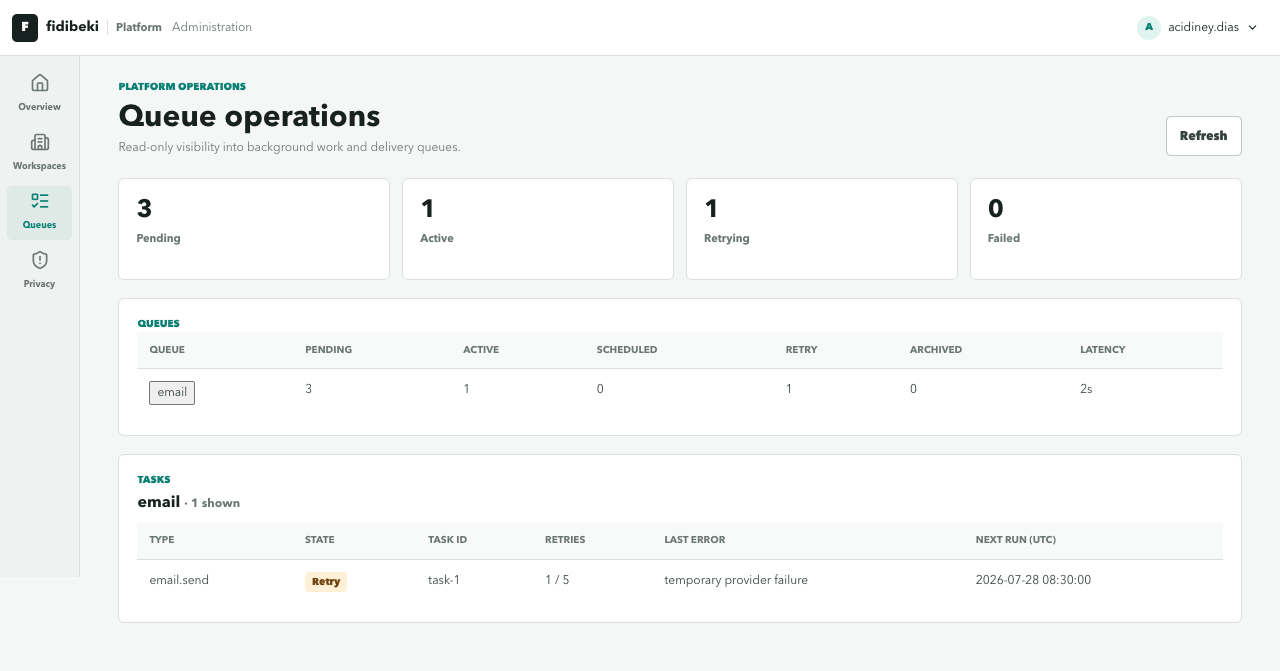
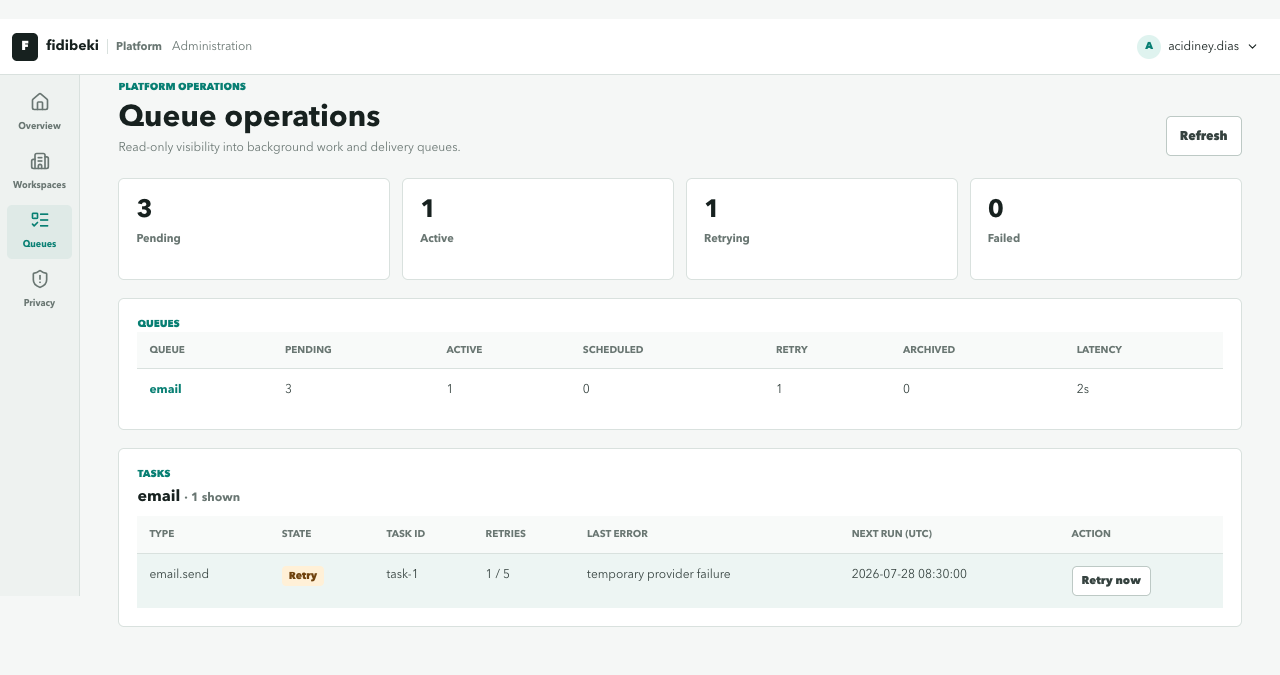
feat(backoffice): retry failed queue tasks

diff --git a/backoffice/pages/queues.vue b/backoffice/pages/queues.vue
@@ -1,5 +1,5 @@
 <script setup lang="ts">
-type Queue = { name: string; pending: number; active: number; scheduled: number; retry: number; archived: number; failed: number; latency: string }
+type Queue = { name: string; pending: number; active: number; scheduled: number; retry: number; archived: number; failed: number; latency: string; selected: boolean }
 type Task = { id: string; type: string; state: string; retries: string; last_error: string; next_process_at: string }
 type Dashboard = { queues: Queue[]; tasks: Task[]; selected_queue: string; refreshed_at: string; total_pending: number; total_active: number; total_retry: number; total_failed: number; selected_task_count: number }
 
@@ -9,8 +9,11 @@ const { $platformApi } = useNuxtApp()
 const selectedQueue = computed(() => typeof route.query.queue === 'string' ? route.query.queue : '')
 const request = computed(() => selectedQueue.value ? `/admin/backoffice/queues?queue=${encodeURIComponent(selectedQueue.value)}` : '/admin/backoffice/queues')
 const { data, error, pending, refresh } = await useAsyncData('queue-dashboard', () => $platformApi<{ dashboard: Dashboard }>(request.value), { server: false, watch: [request] })
+const retryingTaskID = ref('')
+const retryError = ref('')
 
 async function selectQueue(queue: string) {
+  if (queue === data.value?.dashboard.selected_queue) return
   await router.replace({ query: { queue } })
 }
 
@@ -19,12 +22,27 @@ function statusTone(state: string) {
 }
 
 function refreshQueues() { return refresh() }
+
+async function retryTask(task: Task) {
+  const queue = data.value?.dashboard.selected_queue
+  if (!queue || task.state !== 'retry' || retryingTaskID.value) return
+  retryingTaskID.value = task.id
+  retryError.value = ''
+  try {
+    await $platformApi(`/admin/backoffice/queues/${encodeURIComponent(queue)}/tasks/${encodeURIComponent(task.id)}/retry`, { method: 'POST' })
+    await refresh()
+  } catch {
+    retryError.value = 'The task was not retried. Check its current state and try again.'
+  } finally {
+    retryingTaskID.value = ''
+  }
+}
 </script>
 
 <template>
   <section>
     <header class="page-head">
-      <div><p class="eyebrow">Platform operations</p><h1 class="title">Queue operations</h1><p class="subtitle">Read-only visibility into background work and delivery queues.</p></div>
+      <div><p class="eyebrow">Platform operations</p><h1 class="title">Queue operations</h1><p class="subtitle">Inspect background work and explicitly retry failed delivery tasks.</p></div>
       <button class="button secondary" type="button" :disabled="pending" @click="refreshQueues">{{ pending ? 'Refreshing…' : 'Refresh' }}</button>
     </header>
 
@@ -37,9 +55,9 @@ function refreshQueues() { return refresh() }
         <article class="metric"><b>{{ data.dashboard.total_failed }}</b><span>Failed</span></article>
       </div>
 
-      <section class="panel"><p class="eyebrow">Queues</p><div v-if="data.dashboard.queues.length" class="table-wrap"><table class="table"><thead><tr><th>Queue</th><th>Pending</th><th>Active</th><th>Scheduled</th><th>Retry</th><th>Archived</th><th>Latency</th></tr></thead><tbody><tr v-for="queue in data.dashboard.queues" :key="queue.name"><td><button class="queue-link" type="button" @click="selectQueue(queue.name)">{{ queue.name }}</button></td><td>{{ queue.pending }}</td><td>{{ queue.active }}</td><td>{{ queue.scheduled }}</td><td>{{ queue.retry }}</td><td>{{ queue.archived }}</td><td>{{ queue.latency }}</td></tr></tbody></table></div><p v-else class="empty-state">No queues have been created yet.</p></section>
+      <section class="panel"><p class="eyebrow">Queues</p><div v-if="data.dashboard.queues.length" class="table-wrap"><table class="table"><thead><tr><th>Queue</th><th>Pending</th><th>Active</th><th>Scheduled</th><th>Retry</th><th>Archived</th><th>Latency</th></tr></thead><tbody><tr v-for="queue in data.dashboard.queues" :key="queue.name" :class="{ 'table-row-selected': queue.selected }"><td><button class="queue-link" :class="{ 'queue-link--selected': queue.selected }" type="button" :aria-current="queue.selected ? 'page' : undefined" @click="selectQueue(queue.name)">{{ queue.name }}</button></td><td>{{ queue.pending }}</td><td>{{ queue.active }}</td><td>{{ queue.scheduled }}</td><td>{{ queue.retry }}</td><td>{{ queue.archived }}</td><td>{{ queue.latency }}</td></tr></tbody></table></div><p v-else class="empty-state">No queues have been created yet.</p></section>
 
-      <section class="panel"><p class="eyebrow">Tasks</p><h2>{{ data.dashboard.selected_queue || 'No queue selected' }} <span class="muted">· {{ data.dashboard.selected_task_count }} shown</span></h2><div v-if="data.dashboard.tasks.length" class="table-wrap"><table class="table"><thead><tr><th>Type</th><th>State</th><th>Task ID</th><th>Retries</th><th>Last error</th><th>Next run (UTC)</th></tr></thead><tbody><tr v-for="task in data.dashboard.tasks" :key="task.id"><td>{{ task.type }}</td><td><span class="status" :class="statusTone(task.state) && `status--${statusTone(task.state)}`">{{ task.state }}</span></td><td>{{ task.id }}</td><td>{{ task.retries }}</td><td>{{ task.last_error }}</td><td>{{ task.next_process_at }}</td></tr></tbody></table></div><p v-else class="empty-state">No pending, active, scheduled, retry, or archived tasks in this queue.</p></section>
+      <section class="panel"><p class="eyebrow">Tasks</p><h2>{{ data.dashboard.selected_queue || 'No queue selected' }} <span class="muted">· {{ data.dashboard.selected_task_count }} shown</span></h2><p v-if="retryError" class="error queue-action-error" role="alert">{{ retryError }}</p><div v-if="data.dashboard.tasks.length" class="table-wrap"><table class="table"><thead><tr><th>Type</th><th>State</th><th>Task ID</th><th>Retries</th><th>Last error</th><th>Next run (UTC)</th><th>Action</th></tr></thead><tbody><tr v-for="task in data.dashboard.tasks" :key="task.id"><td>{{ task.type }}</td><td><span class="status" :class="statusTone(task.state) && `status--${statusTone(task.state)}`">{{ task.state }}</span></td><td>{{ task.id }}</td><td>{{ task.retries }}</td><td>{{ task.last_error }}</td><td>{{ task.next_process_at }}</td><td><button v-if="task.state === 'retry'" class="button secondary button--compact" type="button" :disabled="Boolean(retryingTaskID)" @click="retryTask(task)">{{ retryingTaskID === task.id ? 'Retrying…' : 'Retry now' }}</button><span v-else class="muted">—</span></td></tr></tbody></table></div><p v-else class="empty-state">No pending, active, scheduled, retry, or archived tasks in this queue.</p></section>
     </template>
     <p v-else class="empty-state">Loading queue operations…</p>
   </section>

diff --git a/backoffice/assets/css/main.css b/backoffice/assets/css/main.css
@@ -172,9 +172,11 @@
 .table th { height: 37px; padding: 0 12px; background: var(--surface-subtle); color: var(--muted); font-size: 10px; text-align: left; text-transform: uppercase; }
 .table td { padding: 12px; border-top: 1px solid var(--line); color: var(--ink-soft); font-size: 12px; vertical-align: top; }
 .table tbody tr:hover { background: var(--row-hover); }
+.table tbody tr.table-row-selected { background: var(--teal-soft); }
 .table a { color: var(--teal); font-weight: 700; }
 .queue-link { padding: 0; background: transparent; border: 0; color: var(--teal); font: inherit; font-weight: 700; text-align: left; }
 .queue-link:hover { text-decoration: underline; }
+.queue-link--selected { color: var(--ink); cursor: default; text-decoration: none !important; }
 .form, .panel form { display: grid; gap: 14px; }
 .panel label, .form label { display: grid; gap: 6px; color: var(--ink-soft); font-size: 12px; font-weight: 650; }
 input, select, textarea {
@@ -205,7 +207,9 @@ input:focus, select:focus, textarea:focus { border-color: var(--teal); box-shado
 .button:hover { background: var(--teal-fill-strong); }
 .button:disabled { cursor: not-allowed; opacity: .55; }
 .button.secondary { background: var(--surface); border-color: var(--line-strong); color: var(--ink-soft); }
+.button--compact { min-height: 30px; padding: 0 9px; font-size: 11px; }
 .error { color: var(--red); font-size: 12px; }
+.queue-action-error { margin: 10px 0 -2px; }
 .status { display: inline-flex; padding: 3px 7px; border-radius: 4px; background: var(--surface-soft); color: var(--ink-soft); font-size: 10px; font-weight: 750; text-transform: capitalize; }
 .status--warning { background: var(--amber-soft); color: var(--amber-ink); }
 .status--critical { background: var(--red-soft); color: var(--red); }

diff --git a/backend/internal/queuemonitor/http.go b/backend/internal/queuemonitor/http.go
@@ -1,7 +1,9 @@
 package queuemonitor
 
 import (
+	"context"
 	"encoding/json"
+	"errors"
 	"fmt"
 	"html/template"
 	"net/http"
@@ -9,11 +11,19 @@ import (
 	"strings"
 	"time"
 
+	"github.com/acidiney/app.fidibeki/backend/internal/api"
+	appmiddleware "github.com/acidiney/app.fidibeki/backend/internal/middleware"
+	"github.com/go-chi/chi/v5"
 	"github.com/hibiken/asynq"
 	"github.com/redis/go-redis/v9"
 )
 
 const RootPath = "/admin/queues"
+
+var (
+	ErrTaskNotRetryable      = errors.New("queue task is not retryable")
+	ErrRetryAuditUnavailable = errors.New("queue retry audit is unavailable")
+)
 
 type Inspector interface {
 	Queues() ([]string, error)
@@ -23,12 +33,23 @@ type Inspector interface {
 	ListScheduledTasks(string, ...asynq.ListOption) ([]*asynq.TaskInfo, error)
 	ListRetryTasks(string, ...asynq.ListOption) ([]*asynq.TaskInfo, error)
 	ListArchivedTasks(string, ...asynq.ListOption) ([]*asynq.TaskInfo, error)
+	GetTaskInfo(string, string) (*asynq.TaskInfo, error)
+	RunTask(string, string) error
+}
+
+// RetryAuditor records the operator's requested task retry before the task is
+// moved in Redis. Redis and PostgreSQL cannot share a transaction, so an audit
+// failure deliberately prevents the command rather than creating an unaudited
+// operational action.
+type RetryAuditor interface {
+	RecordQueueTaskRetry(context.Context, string, string, string) error
 }
 
 type Handler struct {
 	inspector Inspector
 	close     func() error
 	now       func() time.Time
+	auditor   RetryAuditor
 }
 
 func New(redisOption asynq.RedisConnOpt) (*Handler, error) {
@@ -45,6 +66,67 @@ func New(redisOption asynq.RedisConnOpt) (*Handler, error) {
 
 func NewWithInspector(inspector Inspector) *Handler {
 	return &Handler{inspector: inspector, close: func() error { return nil }, now: time.Now}
+}
+
+func (h *Handler) SetRetryAuditor(auditor RetryAuditor) { h.auditor = auditor }
+
+// RetryTask moves one retry-state task to pending for immediate processing.
+// The caller is responsible for authenticating the platform administrator;
+// this method verifies the task state and makes the audit durable before the
+// non-transactional Redis mutation.
+func (h *Handler) RetryTask(ctx context.Context, actorID, queue, taskID string) error {
+	queue = strings.TrimSpace(queue)
+	taskID = strings.TrimSpace(taskID)
+	if queue == "" || taskID == "" {
+		return ErrTaskNotRetryable
+	}
+	task, err := h.inspector.GetTaskInfo(queue, taskID)
+	if err != nil {
+		return err
+	}
+	if task == nil || task.State != asynq.TaskStateRetry {
+		return ErrTaskNotRetryable
+	}
+	if h.auditor == nil {
+		return ErrRetryAuditUnavailable
+	}
+	if err := h.auditor.RecordQueueTaskRetry(ctx, actorID, queue, taskID); err != nil {
+		return fmt.Errorf("record queue retry audit: %w", err)
+	}
+	if err := h.inspector.RunTask(queue, taskID); err != nil {
+		return fmt.Errorf("run retry task: %w", err)
+	}
+	return nil
+}
+
+// RetryBackofficeTask is the authenticated command endpoint for one task in
+// the retry state. Its router is responsible for requiring
+// platform:queue:run; the handler additionally requires the claims context so
+// a missing authentication wrapper cannot produce an anonymous audit event.
+func (h *Handler) RetryBackofficeTask(w http.ResponseWriter, r *http.Request) {
+	if r.Method != http.MethodPost {
+		w.Header().Set("Allow", http.MethodPost)
+		api.WriteError(w, http.StatusMethodNotAllowed, api.CodeBadRequest, "method not allowed", nil)
+		return
+	}
+	claims, ok := appmiddleware.PlatformClaimsFromContext(r.Context())
+	if !ok {
+		api.WriteError(w, http.StatusInternalServerError, api.CodeInternal, "internal server error", nil)
+		return
+	}
+	err := h.RetryTask(r.Context(), claims.Subject, chi.URLParam(r, "queue"), chi.URLParam(r, "taskID"))
+	switch {
+	case err == nil:
+		api.WriteJSON(w, http.StatusAccepted, map[string]string{"status": "accepted"})
+	case errors.Is(err, ErrTaskNotRetryable):
+		api.WriteError(w, http.StatusConflict, api.CodeConflict, "task is not in retry state", nil)
+	case errors.Is(err, ErrRetryAuditUnavailable):
+		api.WriteError(w, http.StatusServiceUnavailable, api.CodeServiceUnavailable, "queue retry is temporarily unavailable", nil)
+	case errors.Is(err, asynq.ErrTaskNotFound), errors.Is(err, asynq.ErrQueueNotFound):
+		api.WriteError(w, http.StatusNotFound, api.CodeNotFound, "queue task not found", nil)
+	default:
+		api.WriteError(w, http.StatusServiceUnavailable, api.CodeServiceUnavailable, "queue retry is temporarily unavailable", nil)
+	}
 }
 
 func (h *Handler) Close() error {

diff --git a/backend/internal/queuemonitor/http_test.go b/backend/internal/queuemonitor/http_test.go
@@ -1,6 +1,7 @@
 package queuemonitor_test
 
 import (
+	"context"
 	"encoding/json"
 	"errors"
 	"net/http"
@@ -99,11 +100,42 @@ func TestQueueMonitorExposesReadOnlyDashboardJSON(t *testing.T) {
 	}
 }
 
+func TestQueueMonitorRetriesOnlyAuditedRetryTasks(t *testing.T) {
+	t.Parallel()
+	inspector := &fakeInspector{task: &asynq.TaskInfo{ID: "task-1", State: asynq.TaskStateRetry}}
+	auditor := &captureRetryAuditor{}
+	handler := queuemonitor.NewWithInspector(inspector)
+	handler.SetRetryAuditor(auditor)
+
+	if err := handler.RetryTask(context.Background(), "admin-1", "email", "task-1"); err != nil {
+		t.Fatalf("RetryTask() error = %v", err)
+	}
+	if inspector.runQueue != "email" || inspector.runID != "task-1" {
+		t.Errorf("RunTask(%q, %q), want email/task-1", inspector.runQueue, inspector.runID)
+	}
+	if auditor.actorID != "admin-1" || auditor.queue != "email" || auditor.taskID != "task-1" {
+		t.Errorf("audit = %#v", auditor)
+	}
+
+	withoutAudit := queuemonitor.NewWithInspector(&fakeInspector{task: &asynq.TaskInfo{ID: "task-2", State: asynq.TaskStateRetry}})
+	if err := withoutAudit.RetryTask(context.Background(), "admin-1", "email", "task-2"); !errors.Is(err, queuemonitor.ErrRetryAuditUnavailable) {
+		t.Errorf("RetryTask(without audit) error = %v, want ErrRetryAuditUnavailable", err)
+	}
+
+	inspector.task.State = asynq.TaskStateActive
+	if err := handler.RetryTask(context.Background(), "admin-1", "email", "task-1"); !errors.Is(err, queuemonitor.ErrTaskNotRetryable) {
+		t.Errorf("RetryTask(active) error = %v, want ErrTaskNotRetryable", err)
+	}
+}
+
 type fakeInspector struct {
-	queues []string
-	info   *asynq.QueueInfo
-	retry  []*asynq.TaskInfo
-	err    error
+	queues   []string
+	info     *asynq.QueueInfo
+	retry    []*asynq.TaskInfo
+	task     *asynq.TaskInfo
+	runQueue string
+	runID    string
+	err      error
 }
 
 func (f *fakeInspector) Queues() ([]string, error)                     { return f.queues, f.err }
@@ -122,4 +154,16 @@ func (f *fakeInspector) ListRetryTasks(string, ...asynq.ListOption) ([]*asynq.Ta
 }
 func (f *fakeInspector) ListArchivedTasks(string, ...asynq.ListOption) ([]*asynq.TaskInfo, error) {
 	return nil, f.err
+}
+func (f *fakeInspector) GetTaskInfo(string, string) (*asynq.TaskInfo, error) { return f.task, f.err }
+func (f *fakeInspector) RunTask(queue, id string) error {
+	f.runQueue, f.runID = queue, id
+	return f.err
+}
+
+type captureRetryAuditor struct{ actorID, queue, taskID string }
+
+func (a *captureRetryAuditor) RecordQueueTaskRetry(_ context.Context, actorID, queue, taskID string) error {
+	a.actorID, a.queue, a.taskID = actorID, queue, taskID
+	return nil
 }

diff --git a/backend/internal/platformadmin/store.go b/backend/internal/platformadmin/store.go
@@ -326,6 +326,24 @@ func (s Store) BootstrapAdmin(ctx context.Context, email string, permissions []s
 	return admin, nil
 }
 
+// RecordQueueTaskRetry writes the operator intent before a background task is
+// moved in Redis. The ledger is append-only and owned by the admin role; the
+// actor is the resource because asynchronous task IDs are not guaranteed to be
+// UUIDs while platform_security_events resource IDs are.
+func (s Store) RecordQueueTaskRetry(ctx context.Context, actorID, queue, taskID string) error {
+	payload, err := json.Marshal(map[string]string{"queue": queue, "task_id": taskID})
+	if err != nil {
+		return fmt.Errorf("encode queue retry audit: %w", err)
+	}
+	if _, err := s.Database.Exec(ctx, `
+		INSERT INTO platform_security_events (kind, resource_type, resource_id, data)
+		VALUES ('operations.queue_task_retry_requested', 'platform_admin', $1, $2::jsonb)
+	`, actorID, string(payload)); err != nil {
+		return fmt.Errorf("record queue retry audit: %w", err)
+	}
+	return nil
+}
+
 // Overview returns bounded aggregate counts for the platform console. The
 // query deliberately remains on the admin pool and does not join member,
 // feedback, session, or attachment tables: the dashboard needs capacity

diff --git a/backend/cmd/fidibeki-api/main.go b/backend/cmd/fidibeki-api/main.go
@@ -371,11 +371,15 @@ func serve(ctx context.Context, logger *slog.Logger, settings config.Config) err
 	platformRoutes.With(appmiddleware.RequirePlatformAdminCookie(
 		jwtManager, platformadmin.PlatformQueueAccessCookie, auth.PermissionPlatformTenantRead,
 	)).Mount(queuemonitor.RootPath, queueMonitor)
+	queueMonitor.SetRetryAuditor(adminStore)
 	// The Nuxt backoffice consumes this read-only JSON representation. The
 	// browser-only legacy monitor above remains mounted at its existing path.
 	platformRoutes.With(appmiddleware.RequirePlatformAdmin(
 		jwtManager, auth.PermissionPlatformTenantRead,
 	)).Get("/admin/backoffice/queues", queueMonitor.ServeBackofficeJSON)
+	platformRoutes.With(appmiddleware.RequirePlatformAdmin(
+		jwtManager, auth.PermissionPlatformQueueRun,
+	)).Post("/admin/backoffice/queues/{queue}/tasks/{taskID}/retry", queueMonitor.RetryBackofficeTask)
 	billing.RegisterPlatformRoutes(platformRoutes, billing.HTTPOptions{Service: billingService, JWT: jwtManager})
 	identity.RegisterPublicRoutes(platformRoutes, identity.HTTPOptions{
 		Store: identity.Store{Database: pools.Admin}, Storage: objectStorage, Logger: logger,

diff --git a/backend/internal/auth/permissions.go b/backend/internal/auth/permissions.go
@@ -61,6 +61,10 @@ const (
 	PermissionPlatformBreachCreate  Permission = "platform:breach:create"
 	PermissionPlatformBreachRead    Permission = "platform:breach:read"
 	PermissionPlatformBreachAppend  Permission = "platform:breach:append"
+	// PermissionPlatformQueueRun permits an operator to move one failed
+	// background task from retry to pending. It is separate from read-only queue
+	// visibility because this command has a direct production side effect.
+	PermissionPlatformQueueRun Permission = "platform:queue:run"
 	// PermissionPlatformTenantSupportAccess gates platform-admin/support access
 	// to a tenant's sensitive data (attachments, replay, exports). Distinct
 	// from the tenant CRUD permissions above: it never grants tenant metadata
@@ -83,6 +87,7 @@ var AllPlatformPermissions = []Permission{
 	PermissionPlatformBreachCreate,
 	PermissionPlatformBreachRead,
 	PermissionPlatformBreachAppend,
+	PermissionPlatformQueueRun,
 	PermissionPlatformTenantSupportAccess,
 }
 

diff --git a/backend/internal/auth/auth_test.go b/backend/internal/auth/auth_test.go
@@ -141,8 +141,11 @@ func TestJWTManagerValidatesConstructionAndIssueInputs(t *testing.T) {
 func TestPlatformPermissionsAreExplicit(t *testing.T) {
 	t.Parallel()
 	permissions := PlatformPermissionStrings()
-	if len(permissions) != 13 {
-		t.Fatalf("platform permission count = %d, want 13", len(permissions))
+	if len(permissions) != 14 {
+		t.Fatalf("platform permission count = %d, want 14", len(permissions))
+	}
+	if !HasPermission(permissions, PermissionPlatformQueueRun) {
+		t.Error("platform:queue:run is missing from the platform permission set")
 	}
 	if HasPermission(permissions, Permission("platform:*")) {
 		t.Error("wildcard permission was accepted")

diff --git a/backend/internal/platformadmin/store_integration_test.go b/backend/internal/platformadmin/store_integration_test.go
@@ -71,7 +71,7 @@ func TestStorePersistsAuthenticationAndTenantLifecycle(t *testing.T) {
 		t.Fatalf("idempotent BootstrapAdmin() = %#v, %v", again, err)
 	}
 	found, err := store.FindAdminByEmail(ctx, " Admin@Example.com ")
-	if err != nil || found.ID != admin.ID || len(found.Permissions) != 13 {
+	if err != nil || found.ID != admin.ID || len(found.Permissions) != 14 {
 		t.Fatalf("FindAdminByEmail() = %#v, %v", found, err)
 	}
 
